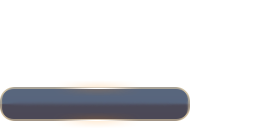
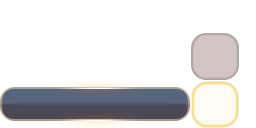
背包UI重做

Changed region(s): [[0.7188, 0.25, 0.9375, 1.0]]

diff --git a/Assets/Main/Scripts/UI/WND_ItemBag/WND_ItemBag.cs b/Assets/Main/Scripts/UI/WND_ItemBag/WND_ItemBag.cs
@@ -1,0 +1,45 @@
+using System.Collections;
+using System.Collections.Generic;
+using UnityEngine;
+using AppSettings;
+
+public class WND_ItemBag : UIFormBase {
+    bool isInLobby;
+    GameObject itemInstence;
+    GameObject bg;
+    UISprite itemBg; 
+    UIGrid grid;
+
+    protected override void OnInit(object userdata)
+    {
+        base.OnInit(userdata);
+        isInLobby = (bool)userdata;
+        bg = transform.Find("bg").gameObject;
+        itemBg = bg.transform.Find("itemBg").GetComponent<UISprite>();
+        itemInstence = bg.transform.Find("itemInstence").gameObject;
+        grid = itemBg.transform.Find("ScrollView/Grid").GetComponent<UIGrid>();
+    }
+    protected override void OnOpen()
+    {
+        base.OnOpen();
+        int num = ItemTableSettings.GetInstance().Count;
+        for(int i = 0; i < num; i++)
+        {
+            GameObject item = Instantiate(itemInstence);
+            item.transform.SetParent(grid.transform);
+            item.transform.localScale = Vector3.one;
+            item.transform.localPosition = Vector3.zero;
+        }
+
+
+    }
+    protected override void OnShow()
+    {
+        base.OnShow();
+        Vector3 orginPos =itemBg.transform.localPosition;
+      //  itemBg.transform.localPosition
+        //TweenPosition.Begin(itemBg.gameObject，0.1f,)
+    }
+
+
+}
